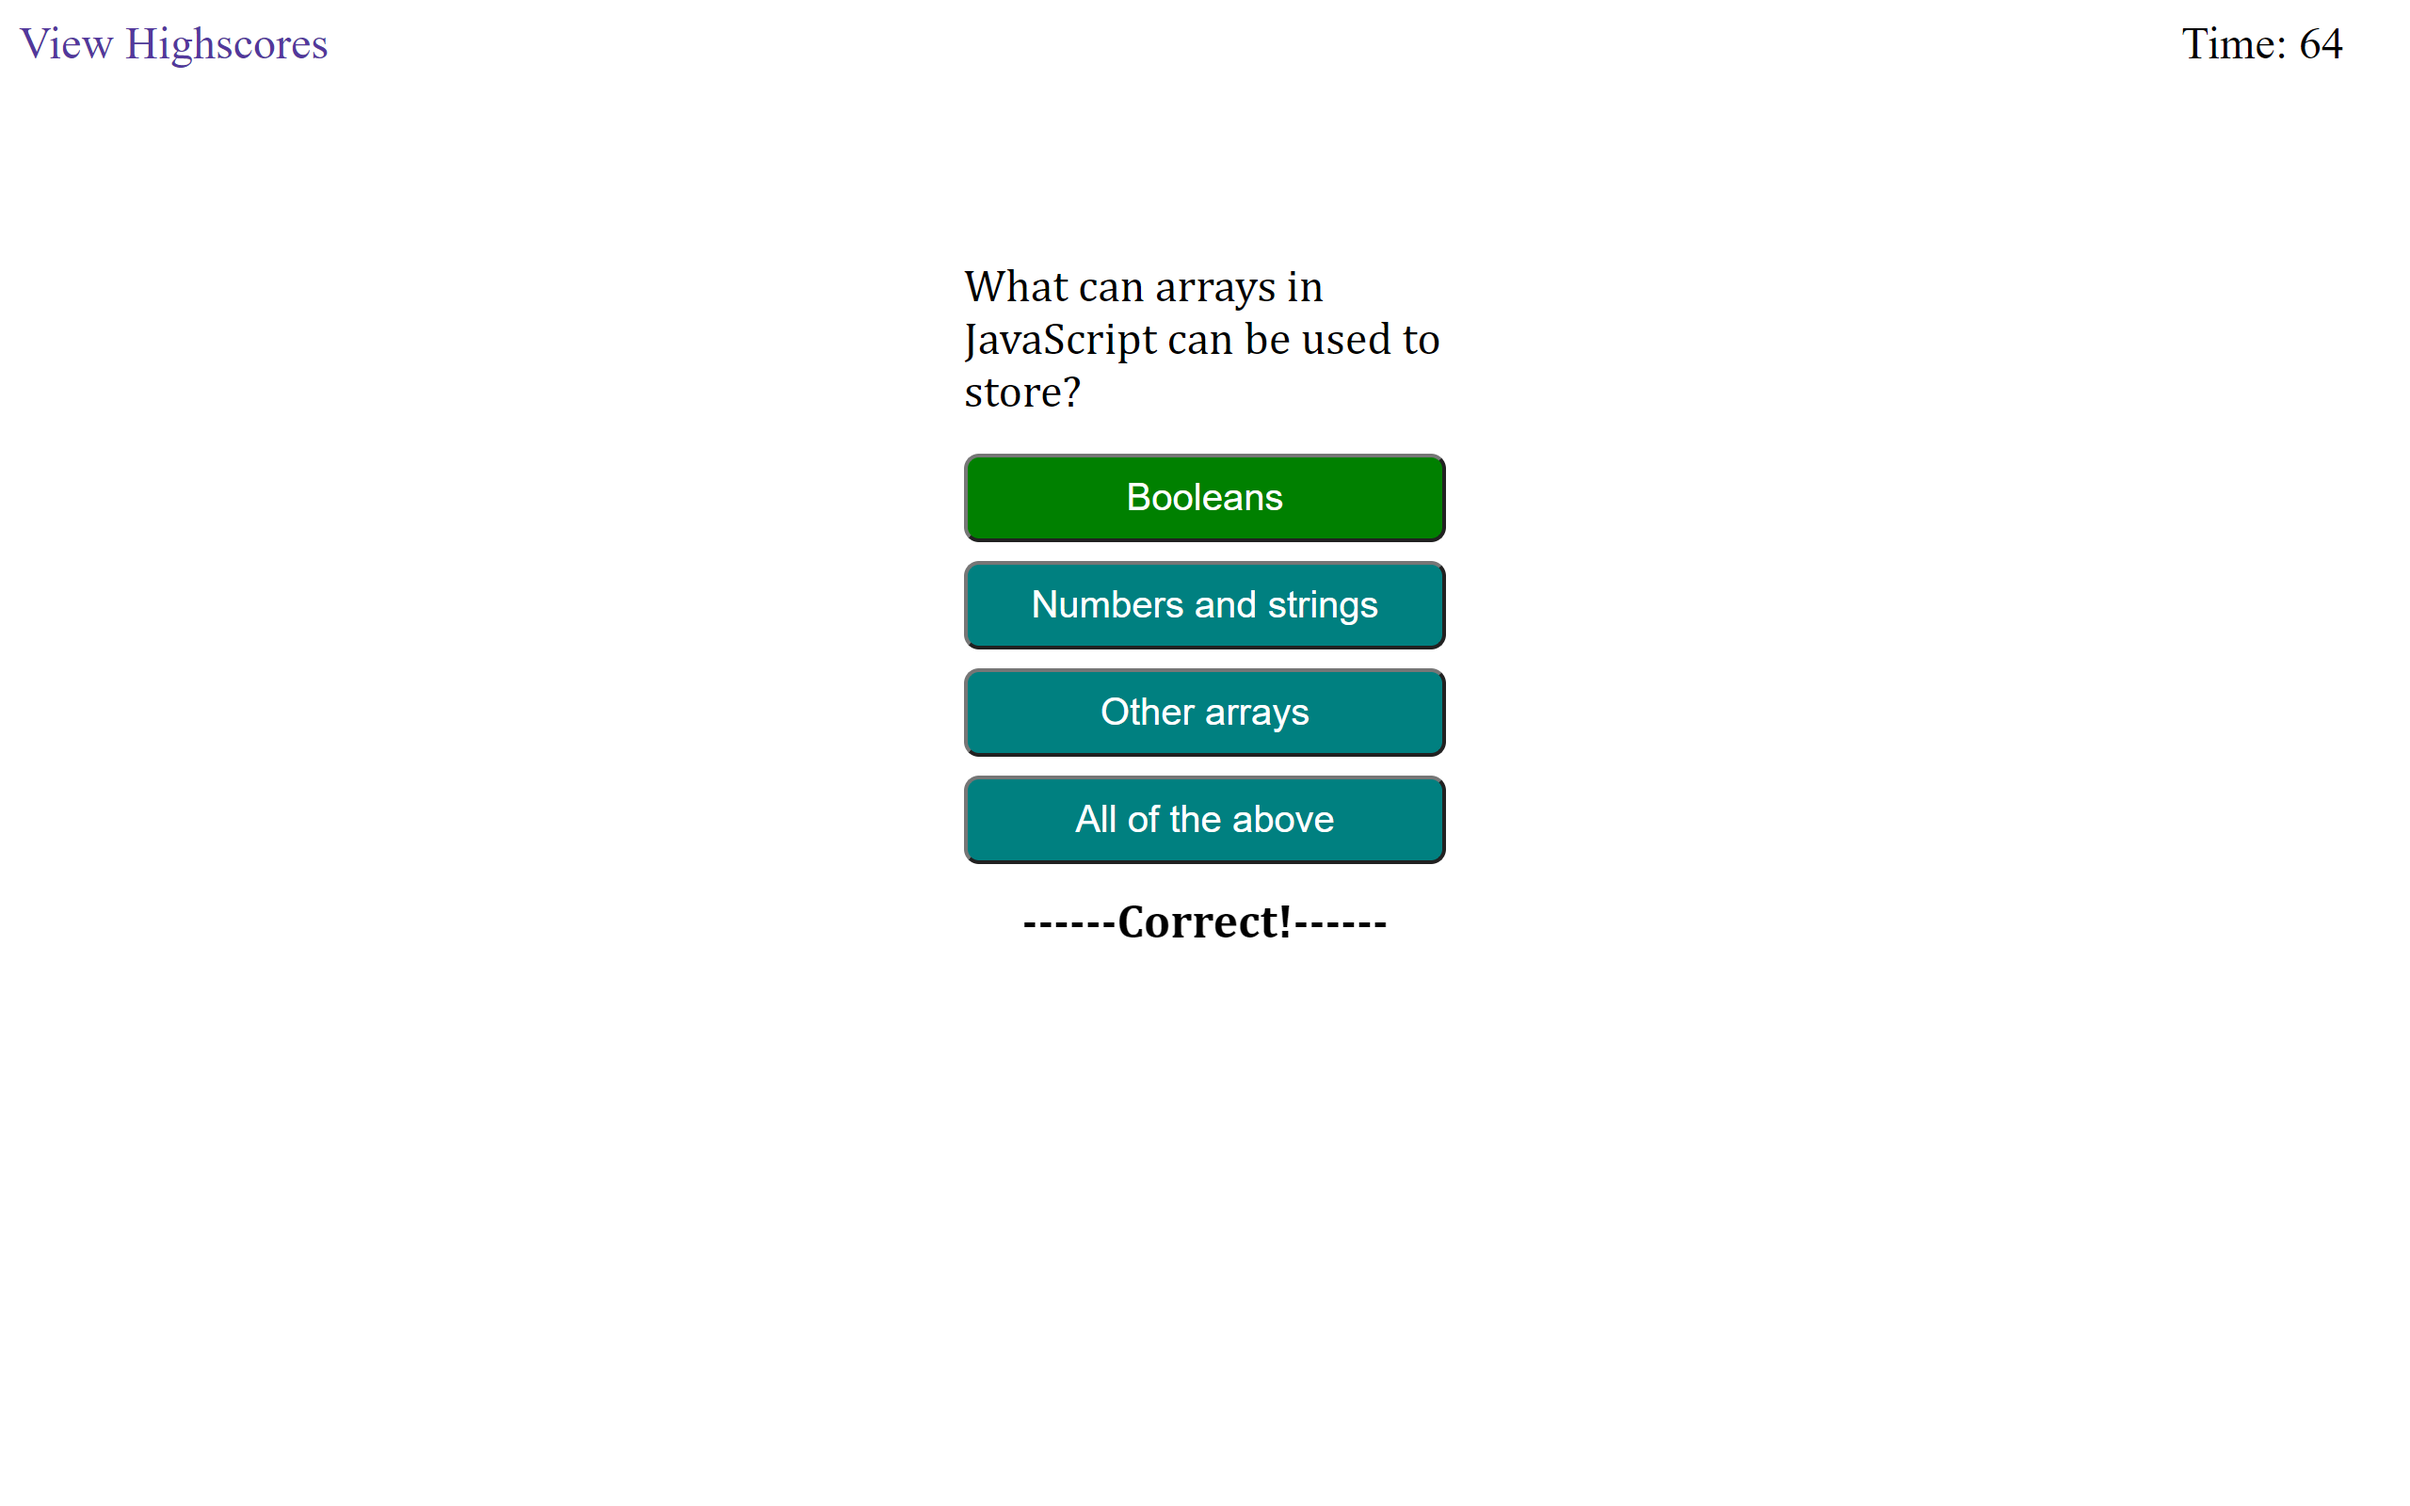
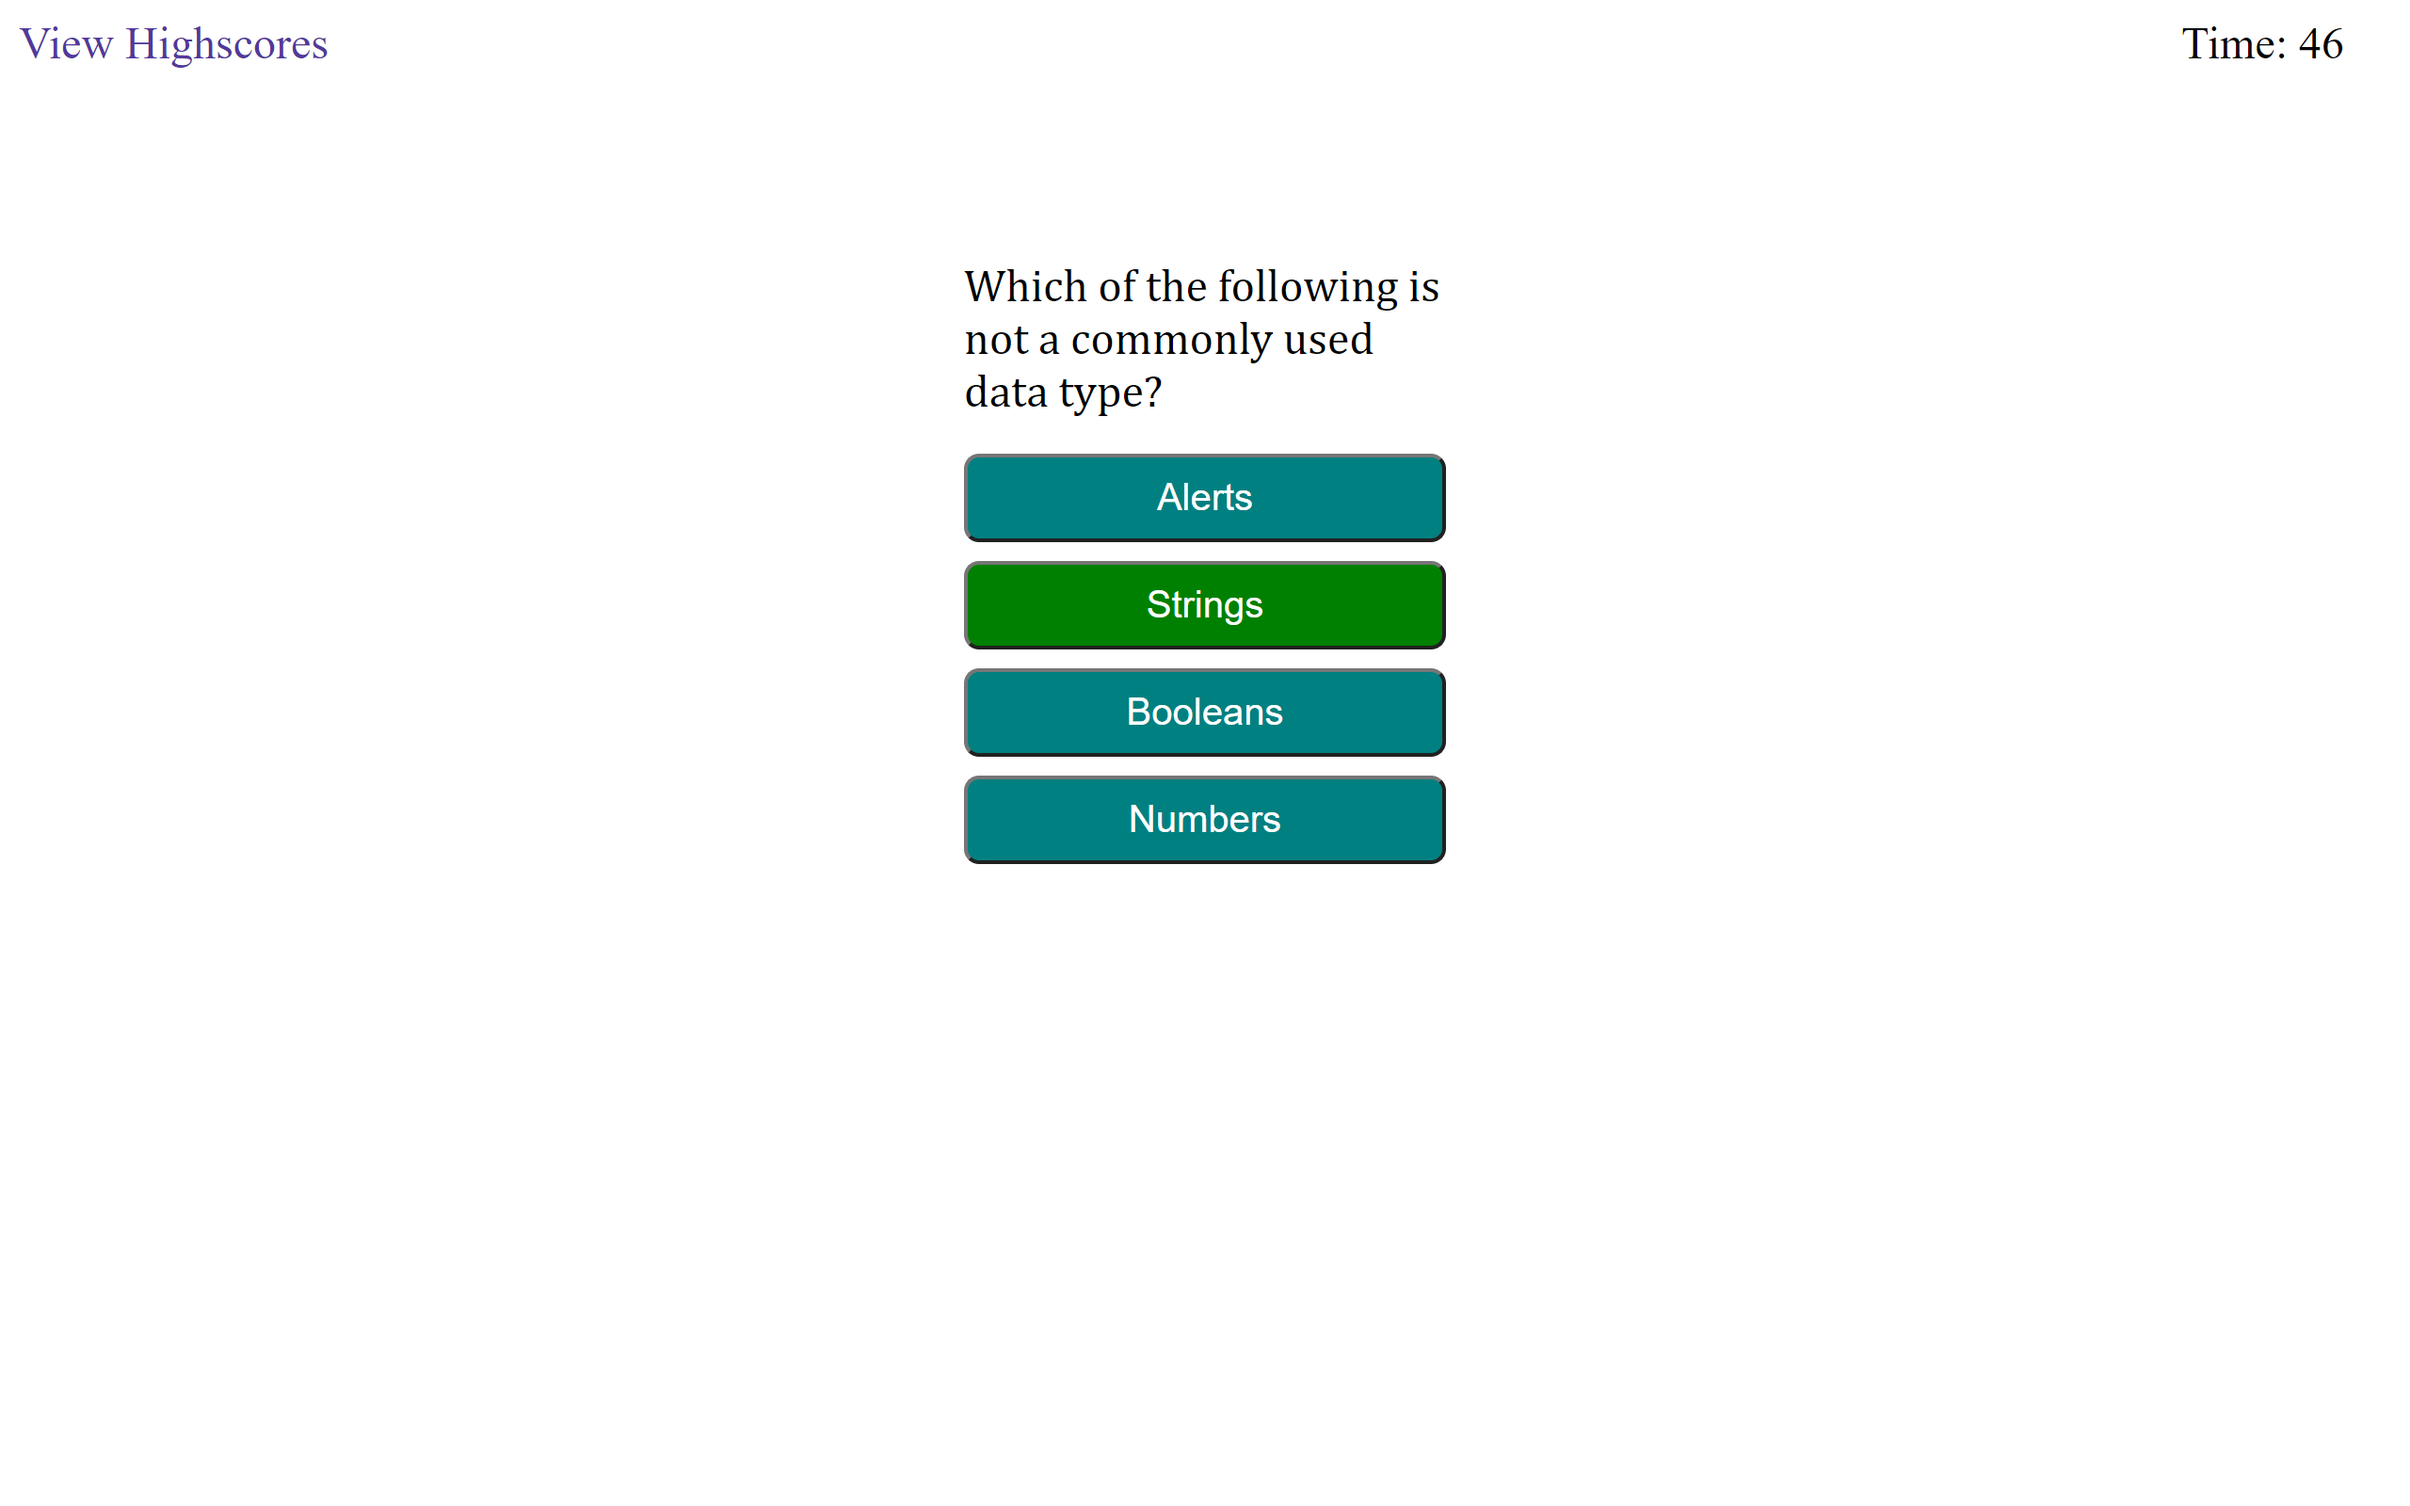
Included Timer code for displaying Correct or Wrong answers

diff --git a/assets/js/script.js b/assets/js/script.js
@@ -57,7 +57,8 @@ let questionShuffle;
 
 
 var questionCounter = 0;
-var timeLeft = questions.length * 15;     
+var timeLeft = questions.length * 15;
+
                                               
 // Timer countdown from 75 seconds
 function countDown() {
@@ -86,6 +87,7 @@ var createQuestionEl = function(questions) {
     
 }
 
+
 var checkAnswer = function(event) {
     var correctAnswer = questions[questionCounter].answer
     var currentAnswer = event.target.textContent   
@@ -103,6 +105,12 @@ var checkAnswer = function(event) {
        
         timeLeft -= 10;
     }
+    setTimeout(function() {
+        displayEl.setAttribute("class", "hide");
+    }, 500);
+    setTimeout(function() {
+        displayEl2.setAttribute("class", "hide");
+    }, 500);
     
     questionCounter++;
     
@@ -113,6 +121,7 @@ var checkAnswer = function(event) {
     createQuestionEl();
     
 }
+
 }
 
 var startGame = function(){
@@ -135,17 +144,8 @@ var endGame = function(){
        endGameEl.classList.remove('hide')
        scoreEl.textContent = "Your final score is " + timeLeft;
        timerEl.classList.add('hide')
-       
-       setTimeout(function() {
-           displayEl.setAttribute("class", "hide");
-       }, 1000);
-       setTimeout(function() {
-           displayEl2.setAttribute("class", "hide");
-       }, 1000);
        highScore();
   }
-
-
   function highScore(){
     submitButton.addEventListener("click", function(event) {
         

diff --git a/assets/css/style.css b/assets/css/style.css
@@ -94,20 +94,22 @@ margin-bottom: 15px;
 }
 
 
-.correct {
+#display {
   width: 100%;
   font-size: 25px;
   font-weight: bold;
   margin-top: 10px;
   text-align: center;
+  
 }
 
-.incorrect {
+#display2 {
   width: 100%;
   font-size: 25px;
   font-weight: bold;
   margin-top: 10px;
   text-align: center;
+  
 }
 
 .end {
